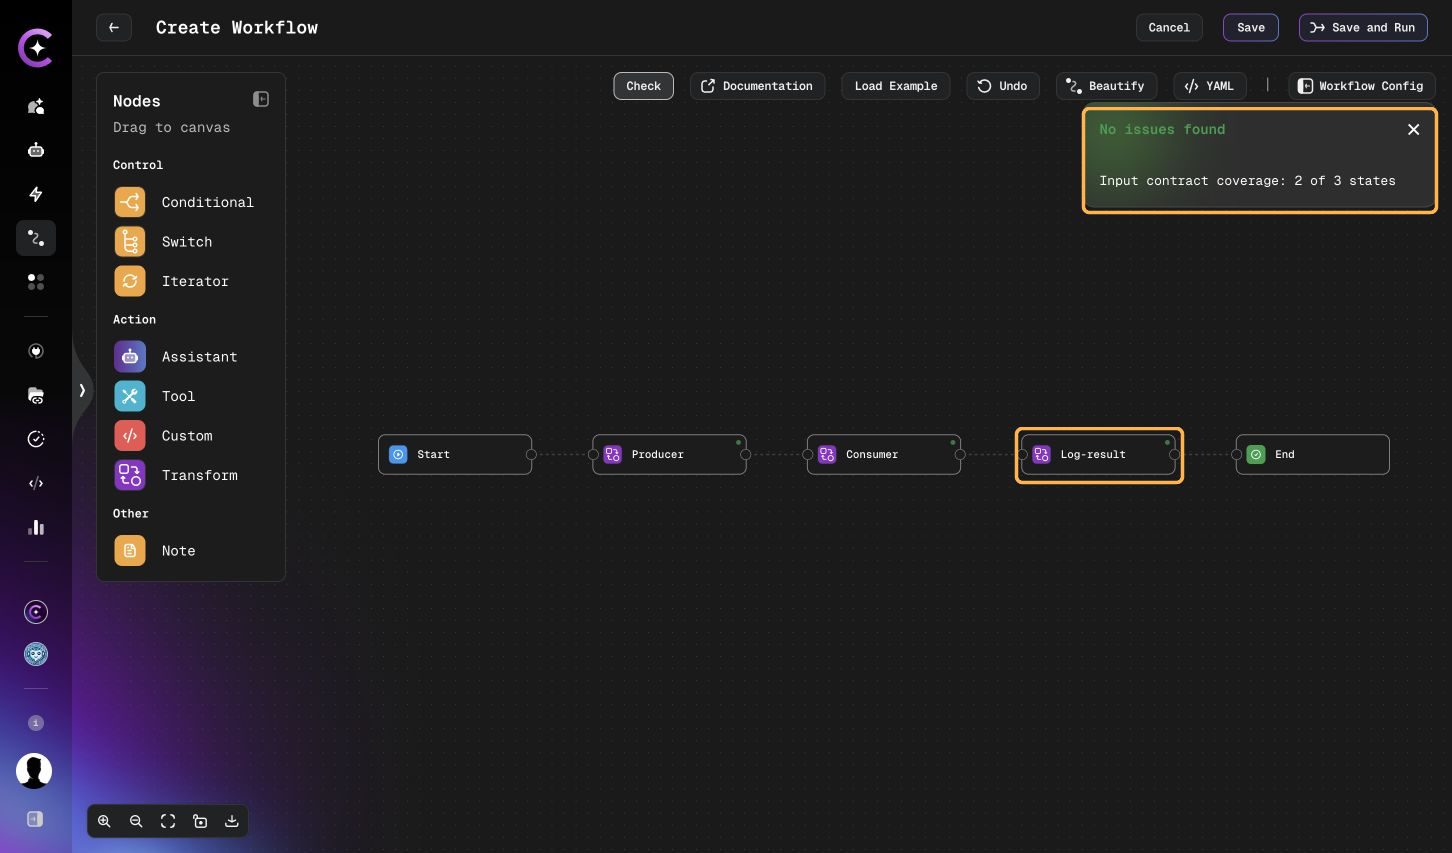
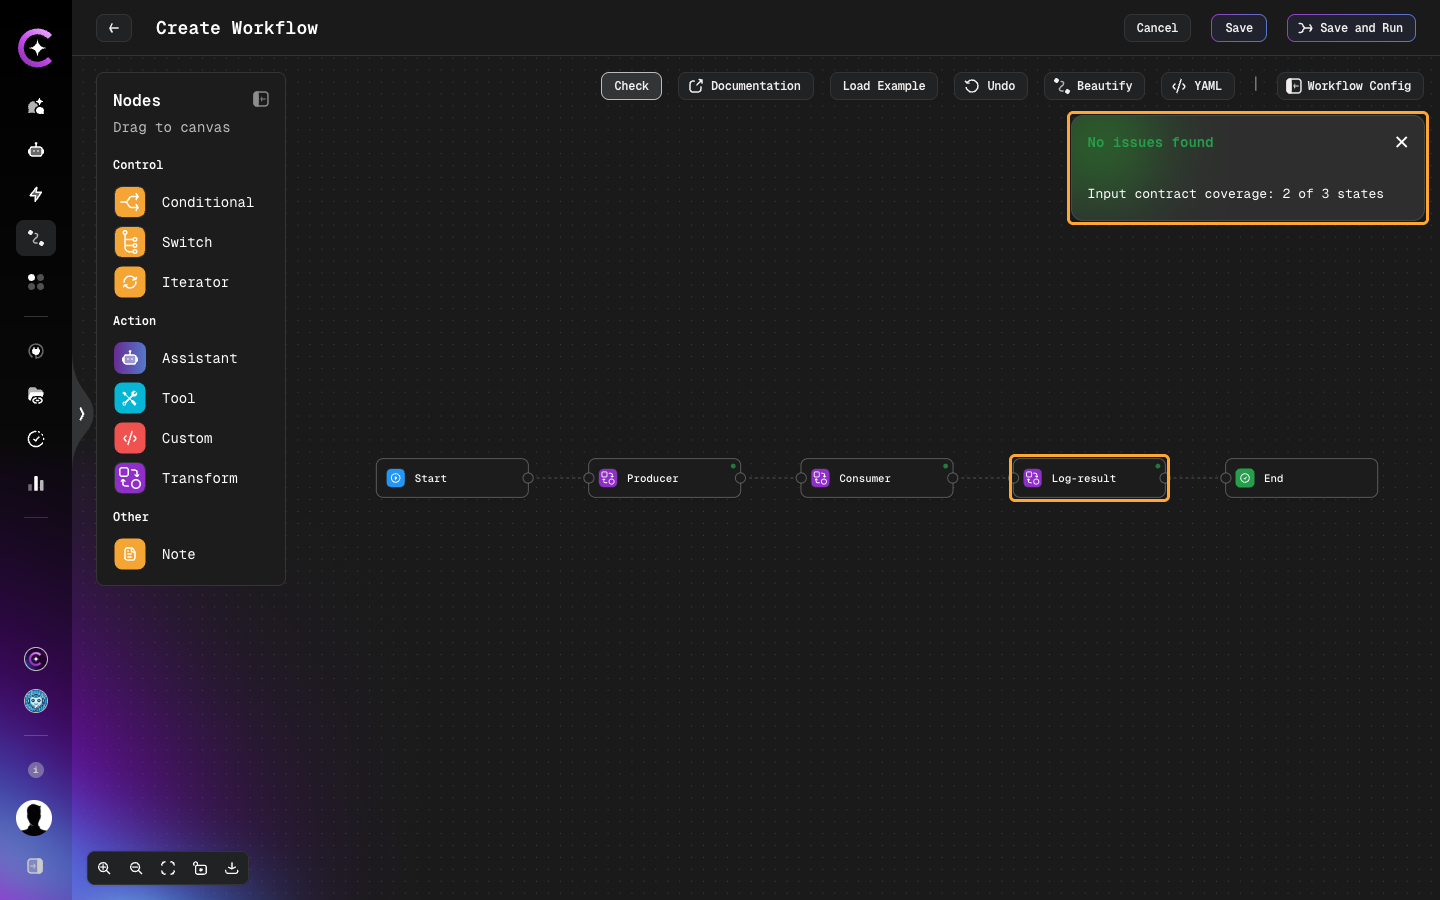
docs(user-guide): recapture workflow contract screenshots at 16:10
Retake the ten contract validation screenshots at 1440x900 and 100%
scale so they meet the capture guidelines, and name the Workflow
created with warnings status shown after the first save.

Generated with AI

diff --git a/docs/user-guide/workflows/create-workflow.md b/docs/user-guide/workflows/create-workflow.md
@@ -433,9 +433,10 @@ execution. The editor then offers three actions:
 
 The example below keeps only the type mismatch from the previous section. Save succeeds in
 `warn` mode. The outlined status and actions confirm that the workflow is saved and that execution
-is a separate choice.
+is a separate choice. The **Issues** panel reads **Workflow created with warnings** after the first
+save of a new workflow and **Saved with warnings** after a later save.
 
-![Saved with warnings, with Done, Saved, and Run anyway outlined](./images/saved-with-warnings.png)
+![Workflow created with warnings, with Done, Saved, and Run anyway outlined](./images/saved-with-warnings.png)
 
 Warnings and informational `UNVERIFIED` results are different. A warning means the analysis
 found a likely problem, such as an optional field that a state needs. `UNVERIFIED` means the
